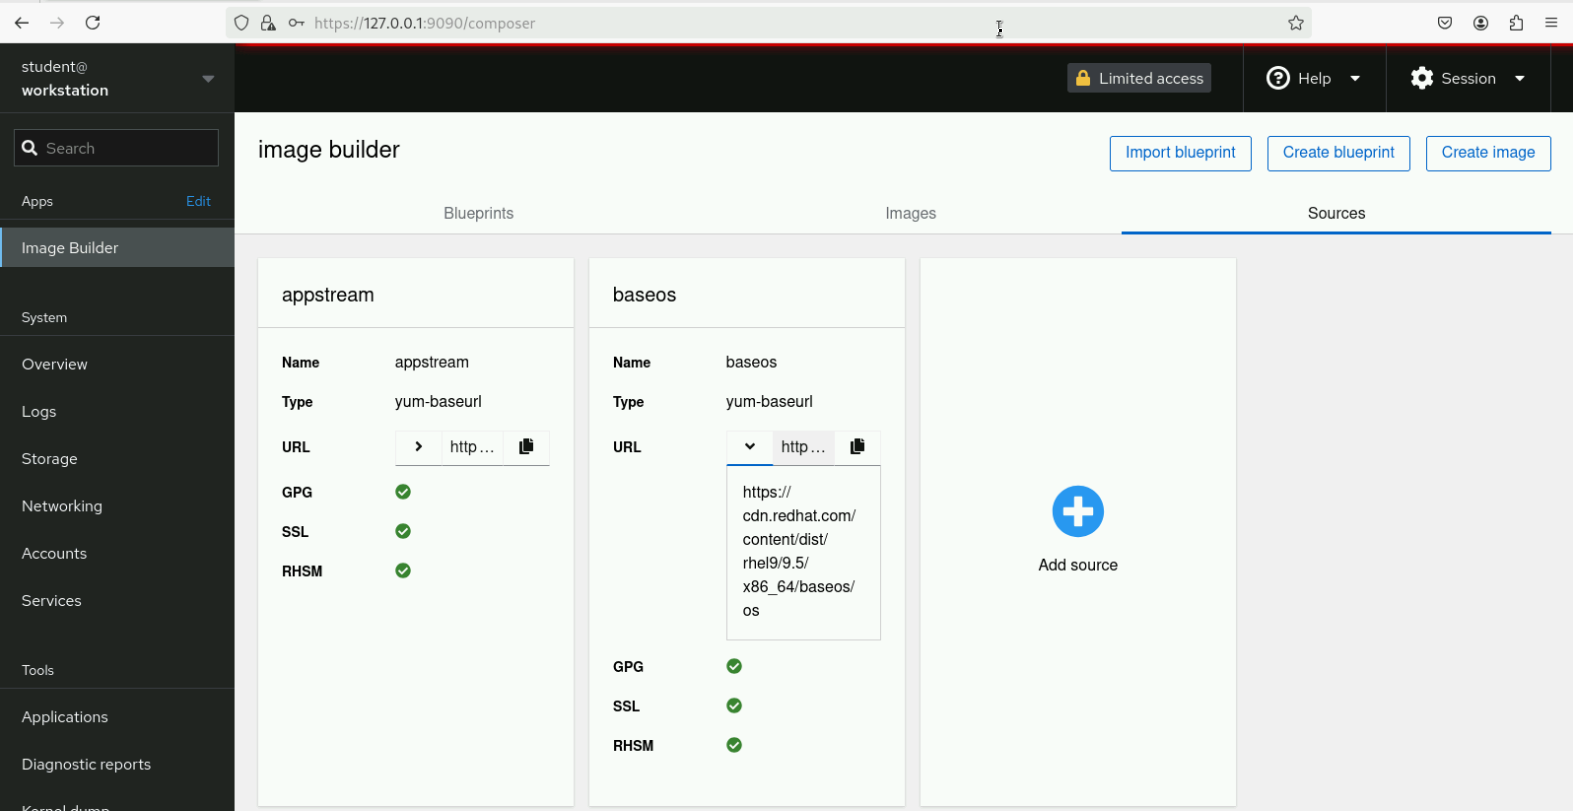
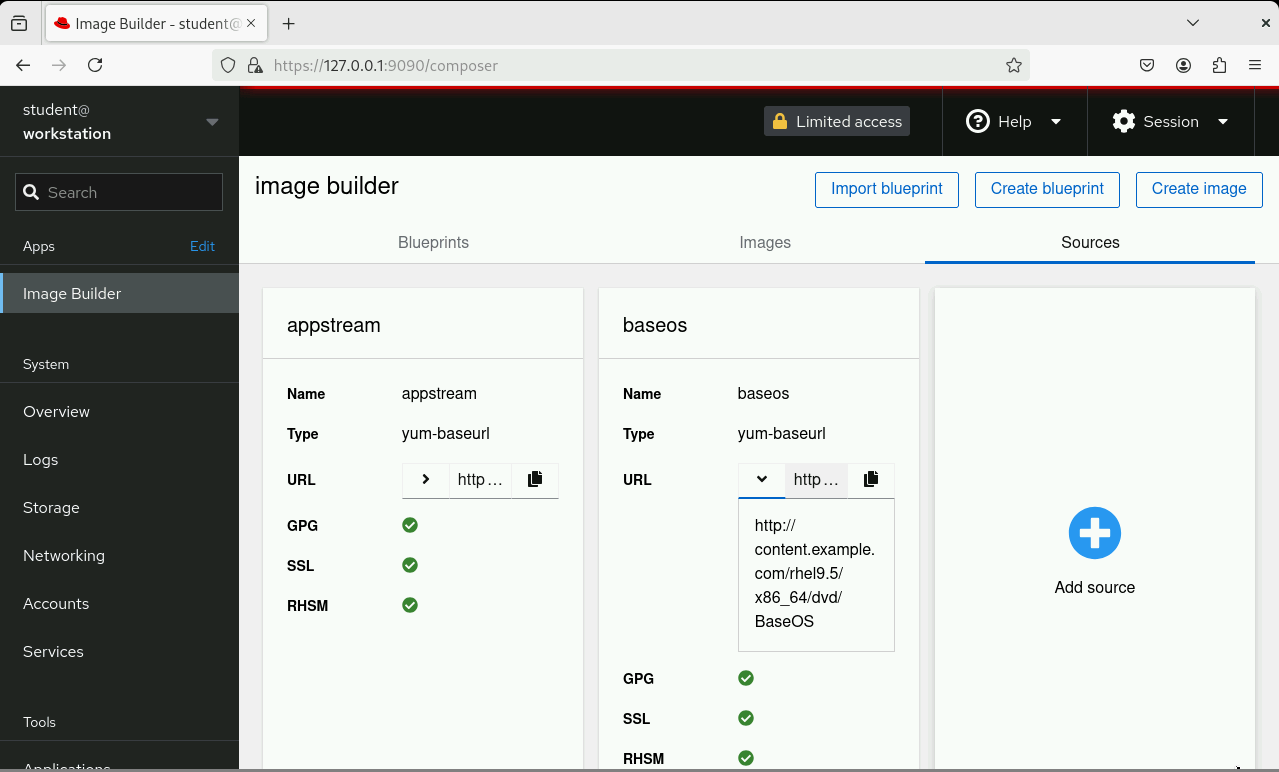
deploy: 862fe9bdd9163712556e44ab9c93e647989b5f18

diff --git a/rhde-build/1/ch1-build/s4-install-lab.html b/rhde-build/1/ch1-build/s4-install-lab.html
@@ -486,7 +486,7 @@ Restarting Image Builder this way  only works because there was no attempt at bu
 appstream
 baseos
 $ <strong>composer-cli sources info baseos</strong>
-check_gpg = false
+check_gpg = true
 check_repogpg = false
 ...
 rhsm = false
@@ -494,7 +494,7 @@ system = true
 type = "yum-baseurl"
 url = "http://content.example.com/rhel9.5/x86_64/dvd/BaseOS"
 $ <strong>composer-cli sources info appstream</strong>
-check_gpg = false
+check_gpg = true
 check_repogpg = false
 ...
 rhsm = false
@@ -508,9 +508,6 @@ url = "http://content.example.com/rhel9.5/x86_64/dvd/ApStream"</code></pre>
 <p>You cannot configure repository overrides for RHEL packages using the Image Builder web UI but you can verify that the changes are in effect.</p>
 <div class="paragraph">
 <p>Enter the <b class="button">Image Builder</b> item in Cockpit and click <b class="button">Sources</b>. Then, for both the <b class="button">BaseOS</b> and the <b class="button">AppStreams</b> channels, click <b class="button">&gt;</b> to expand the URL and verify it matches your configuration override.</p>
-</div>
-<div class="paragraph">
-<p>TODO update screen shot</p>
 </div>
 <div class="imageblock">
 <div class="content">
